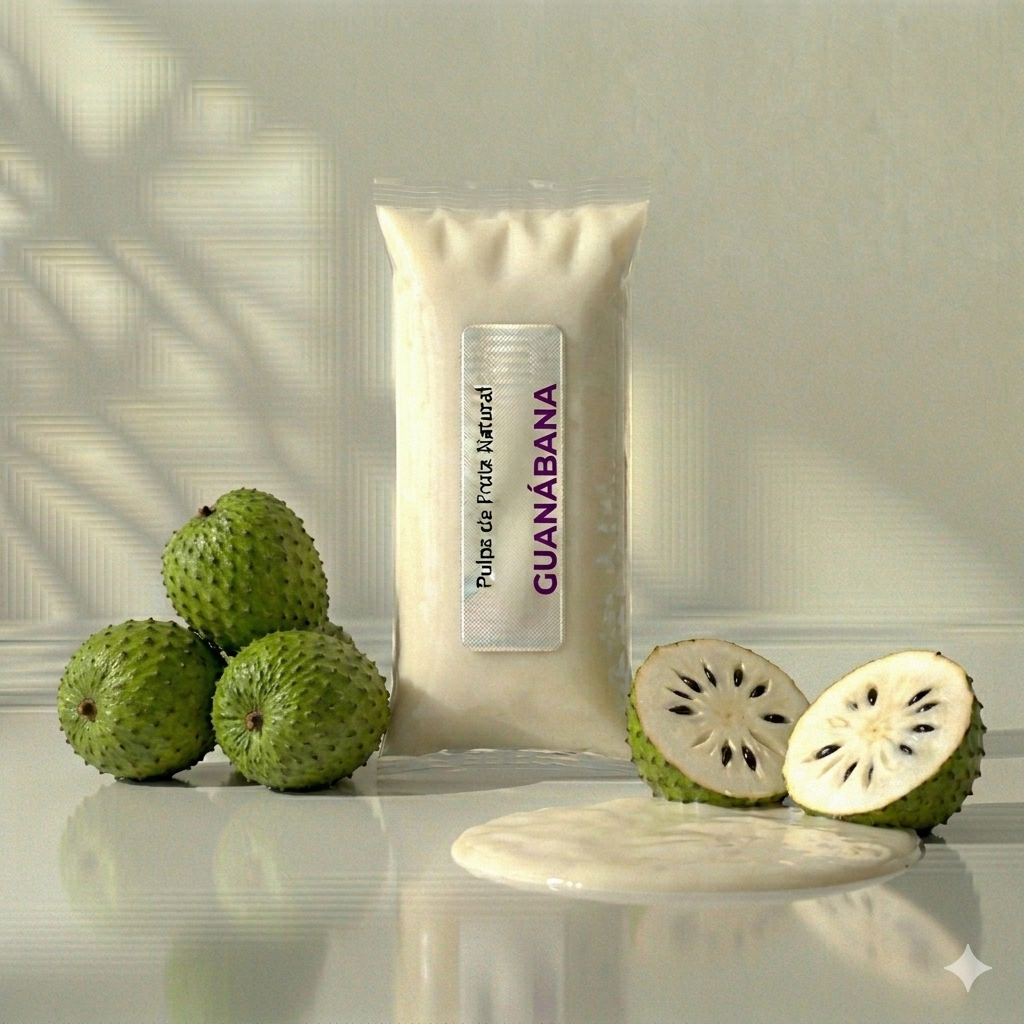
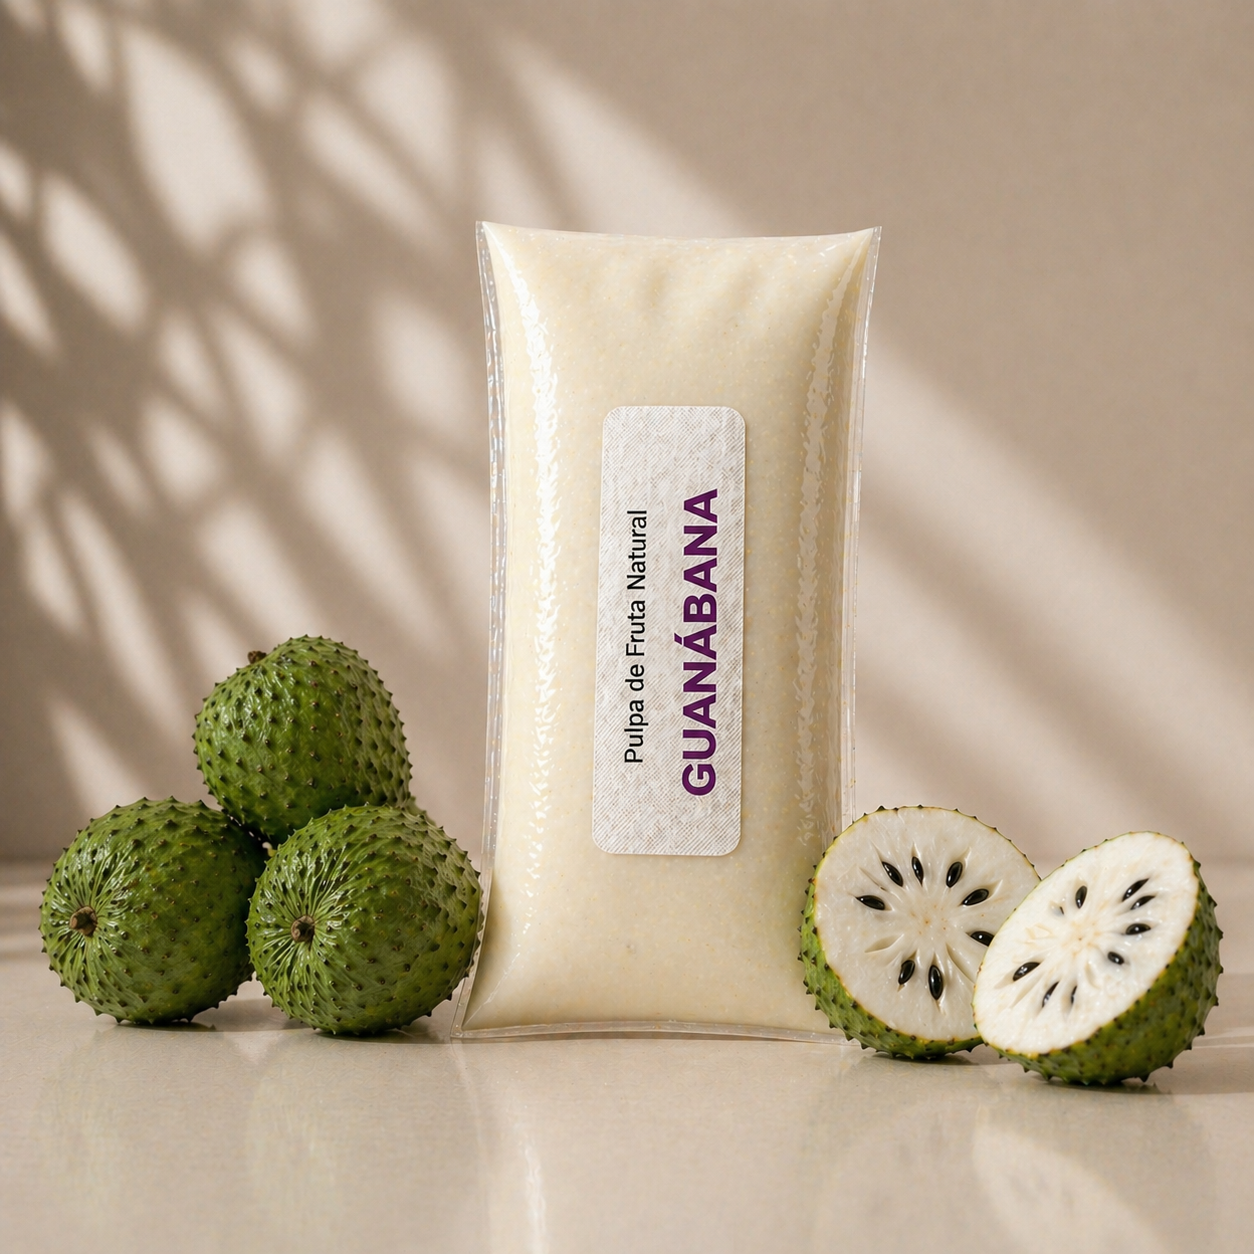
feat(productos): imágenes packaging + gradientes diferenciados + fixes de UI
Imágenes:
- Agrega Frutos Rojos (120g, 1000g), Guayaba (120g), Tomate de Árbol (120g)
- Reemplaza Fresa1000 por Fresa1000V2 (mejor recorte)
- Actualiza Guanabana120 y Tomate-Arbol con versiones optimizadas

Gradientes:
- Diferencia Maracuyá (dorado-miel), Mango (amarillo-naranja tropical) y Lulo (amarillo → lima → naranja)

Fixes:
- Corrige borde invisible de cards (border-gray-200, shadow-md)
- Añade px-2 en contenedores scroll para que sombras no se recorten
- Añade px-1 al carrusel de frutas para que el ring de selección no se recorte
- Filtro de tamaño ahora siempre aparece a la derecha del filtro de sabor (layout sin flex-wrap externo)
- Extiende hasPackagingImage a ProductGridCard

diff --git a/data/products.ts b/data/products.ts
@@ -35,7 +35,7 @@ export const productLines: ProductLineConfig[] = [
     key: "pulpa-maracuya",
     label: "Pulpa de Maracuyá",
     description: "Exótica y aromática, congelada en su punto exacto de madurez.",
-    gradient: "from-yellow-400 to-orange-500",
+    gradient: "from-yellow-400 to-amber-600",
     iconEmoji: "🟡",
   },
   {
@@ -56,7 +56,7 @@ export const productLines: ProductLineConfig[] = [
     key: "pulpa-mango",
     label: "Pulpa de Mango",
     description: "Mango tropical colombiano en su punto ideal de dulzor y madurez.",
-    gradient: "from-amber-400 to-orange-500",
+    gradient: "from-yellow-400 to-orange-500",
     iconEmoji: "🥭",
   },
   {
@@ -70,7 +70,7 @@ export const productLines: ProductLineConfig[] = [
     key: "pulpa-lulo",
     label: "Pulpa de Lulo",
     description: "Agridulce y tropical, el sabor más colombiano del catálogo.",
-    gradient: "from-orange-300 to-yellow-500",
+    gradient: "from-yellow-400 to-orange-500",
     iconEmoji: "🍊",
   },
   {
@@ -359,7 +359,7 @@ export const products: Product[] = [
     line: "pulpa-fresa",
     presentation: "1000g",
     presentationOrder: 3,
-    image: "/imgs/Fresa1000.png",
+    image: "/imgs/Fresa1000V2.png",
     description: "Presentación institucional para negocios y restaurantes. Fresa colombiana 100% natural.",
     ingredients: ["Fresa 100% natural"],
     benefits: ["Vitamina C", "Antioxidantes", "Sin conservantes"],
@@ -477,7 +477,7 @@ export const products: Product[] = [
     line: "pulpa-guayaba",
     presentation: "120g",
     presentationOrder: 1,
-    image: "/imgs/fruta-guayaba.webp",
+    image: "/imgs/Guayaba120.png",
     description: "Porción individual lista para preparar. Guayaba colombiana dulce y aromática, congelada en su punto exacto.",
     ingredients: ["Guayaba 100% natural"],
     benefits: ["Vitamina C y A", "Fibra natural", "Sin conservantes"],
@@ -512,7 +512,7 @@ export const products: Product[] = [
     line: "pulpa-frutos-rojos",
     presentation: "120g",
     presentationOrder: 1,
-    image: "/imgs/fruta-frutos-rojos.webp",
+    image: "/imgs/Frutos-Rojos120.png",
     description: "Porción individual lista para preparar. Mix de berries antioxidantes congelados en su punto exacto.",
     ingredients: ["Frutos rojos 100% naturales"],
     benefits: ["Antioxidantes", "Vitamina C y K", "Sin conservantes"],
@@ -534,7 +534,7 @@ export const products: Product[] = [
     line: "pulpa-frutos-rojos",
     presentation: "1000g",
     presentationOrder: 3,
-    image: "/imgs/fruta-frutos-rojos.webp",
+    image: "/imgs/Frutos-Rojos1000.png",
     description: "Presentación institucional para negocios y restaurantes. Mix de berries colombianos 100% naturales.",
     ingredients: ["Frutos rojos 100% naturales"],
     benefits: ["Antioxidantes", "Vitamina C y K", "Sin conservantes"],
@@ -547,7 +547,7 @@ export const products: Product[] = [
     line: "pulpa-tomate-arbol",
     presentation: "120g",
     presentationOrder: 1,
-    image: "/imgs/fruta-tomate-arbol.webp",
+    image: "/imgs/Tomate-Arbol120.png",
     description: "Porción individual lista para preparar. Tomate de árbol colombiano, ideal para jugos naturales.",
     ingredients: ["Tomate de árbol 100% natural"],
     benefits: ["Vitamina A, C y E", "Bajo en calorías", "Sin conservantes"],

diff --git a/app/[lang]/productos/ProductosClient.tsx b/app/[lang]/productos/ProductosClient.tsx
@@ -233,11 +233,11 @@ export default function ProductosClient({ products, productLines, initialCategor
               className="overflow-hidden"
             >
               <div className={`border-t transition-colors duration-500 ${isSticky ? "border-white/30" : "border-gray-100"}`}>
-                <div className="max-w-7xl mx-auto px-4 py-2 flex flex-wrap items-center justify-between gap-x-6 gap-y-2">
+                <div className="max-w-7xl mx-auto px-4 py-2 flex items-start gap-4">
 
-                  {/* Sub-líneas / sabores */}
+                  {/* Sub-líneas / sabores — ocupa el espacio disponible, wrappea en hasta 2 filas */}
                   {showSubFilter && (
-                    <div className="flex items-center gap-2 flex-wrap">
+                    <div className="flex items-center gap-2 flex-wrap flex-1 min-w-0">
                       <span className={`text-[10px] font-semibold uppercase tracking-wide shrink-0 transition-colors duration-500 ${isSticky ? "text-primary-dark/70" : "text-gray-400"}`}>
                         {lang === "es" ? "Sabor:" : "Flavor:"}
                       </span>
@@ -263,13 +263,13 @@ export default function ProductosClient({ products, productLines, initialCategor
                     </div>
                   )}
 
-                  {/* Tamaños — solo cuando hay 0 o 2+ sub-líneas activas y no es "todas" */}
+                  {/* Tamaños — anclado a la derecha, nunca baja */}
                   {availableSizes.length > 0 && activeSubLines.size !== 1 && activeCategory !== "todas" && (
-                    <div className="flex items-center gap-2 overflow-x-auto scrollbar-none">
+                    <div className="flex items-center gap-2 shrink-0 self-start">
                       <span className={`text-[10px] font-semibold uppercase tracking-wide shrink-0 transition-colors duration-500 ${isSticky ? "text-primary-dark/70" : "text-gray-400"}`}>
                         {dict.products.filters.size}
                       </span>
-                      <div className="flex gap-1.5 shrink-0">
+                      <div className="flex gap-1.5">
                         {["todos", ...availableSizes].map((size) => (
                           <button
                             key={size}

diff --git a/components/ui/ProductCard.tsx b/components/ui/ProductCard.tsx
@@ -27,11 +27,11 @@ export default function ProductCard({ product, accentGradient = "from-primary to
   // Degradados ricos para fondo de card — más dramáticos que los de badges/iconos
   const CARD_GRADIENTS: Record<string, string> = {
     "pulpa-mora":          "from-purple-300 via-purple-500 to-violet-800",
-    "pulpa-maracuya":      "from-amber-200 via-orange-400 to-orange-700",
+    "pulpa-maracuya":      "from-yellow-200 via-amber-400 to-amber-700",
     "pulpa-fresa":         "from-rose-200 via-rose-500 to-red-700",
-    "pulpa-mango":         "from-amber-200 via-amber-400 to-orange-700",
+    "pulpa-mango":         "from-yellow-300 via-amber-400 to-orange-500",
     "pulpa-guanabana":     "from-emerald-200 via-green-400 to-green-700",
-    "pulpa-lulo":          "from-yellow-200 via-yellow-400 to-orange-600",
+    "pulpa-lulo":          "from-yellow-300 via-lime-400 to-orange-500",
     "pulpa-guayaba":       "from-pink-200 via-pink-400 to-rose-700",
     "pulpa-frutos-rojos":  "from-rose-300 via-red-500 to-red-800",
     "pulpa-tomate-arbol":  "from-orange-200 via-orange-500 to-red-700",
@@ -39,7 +39,7 @@ export default function ProductCard({ product, accentGradient = "from-primary to
   const cardGradient = CARD_GRADIENTS[product.line] ?? accentGradient;
 
   return (
-    <div className="card-shimmer relative shrink-0 w-[234px] rounded-2xl overflow-hidden border border-gray-100 shadow-sm hover:shadow-xl hover:shadow-primary/8 hover:-translate-y-1 transition-all duration-300 bg-white">
+    <div className="card-shimmer relative shrink-0 w-[234px] rounded-2xl overflow-hidden border border-gray-200 shadow-md hover:shadow-xl hover:shadow-primary/8 hover:-translate-y-1 transition-all duration-300 bg-white">
       {/* Imagen */}
       <div className={`relative h-60 ${
         product.line === "kumiss"

diff --git a/components/ui/PulpaFruitGrid.tsx b/components/ui/PulpaFruitGrid.tsx
@@ -94,7 +94,7 @@ export default function PulpaFruitGrid({ pulpaLines, products }: PulpaFruitGridP
         <div
           ref={scrollRef}
           onScroll={checkScroll}
-          className="flex gap-2 overflow-x-auto scrollbar-none flex-1 py-1"
+          className="flex gap-2 overflow-x-auto scrollbar-none flex-1 py-1 px-1"
         >
           {pulpaLines.map((line) => {
             const isSelected = selectedKey === line.key;
@@ -179,7 +179,7 @@ export default function PulpaFruitGrid({ pulpaLines, products }: PulpaFruitGridP
               </div>
             </div>
 
-            <div className="overflow-x-auto pb-2 scrollbar-thin scrollbar-thumb-gray-200 scrollbar-track-transparent">
+            <div className="overflow-x-auto pb-2 px-2 scrollbar-thin scrollbar-thumb-gray-200 scrollbar-track-transparent">
               <div className="flex gap-5 w-fit mx-auto">
                 {selectedProducts.map((product) => (
                   <ProductCard

diff --git a/components/ui/ProductLineRow.tsx b/components/ui/ProductLineRow.tsx
@@ -77,7 +77,7 @@ export default function ProductLineRow({ line, products, firstLine = false }: Pr
       {/* Scroll container */}
       <div
         ref={scrollRef}
-        className="overflow-x-auto pb-3 scrollbar-thin scrollbar-thumb-gray-200 scrollbar-track-transparent"
+        className="overflow-x-auto pb-3 px-2 scrollbar-thin scrollbar-thumb-gray-200 scrollbar-track-transparent"
       >
         <div className="flex gap-5 w-fit mx-auto">
           {products.map((product, index) => (
